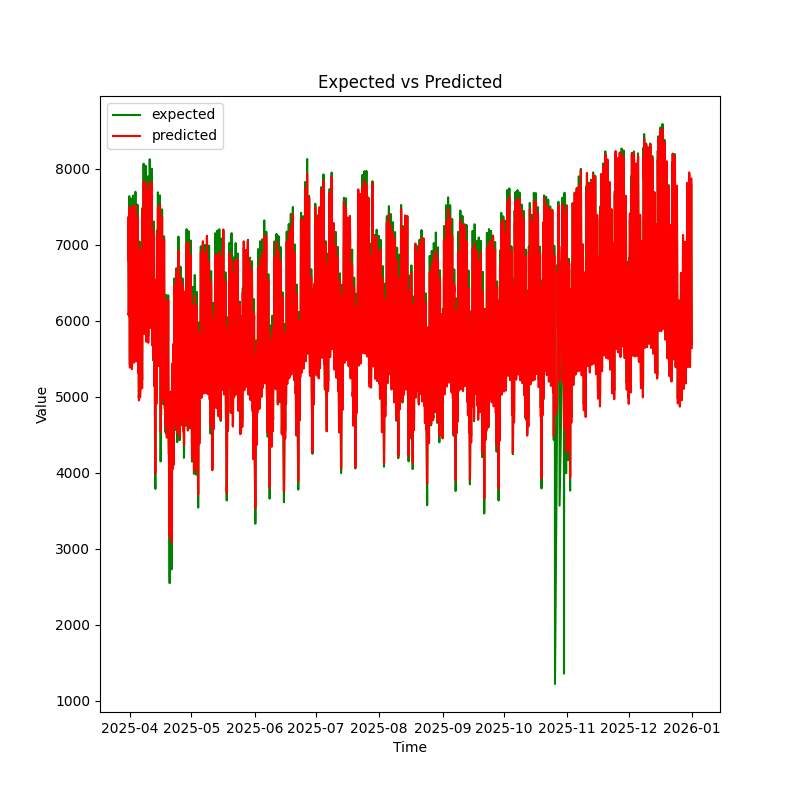
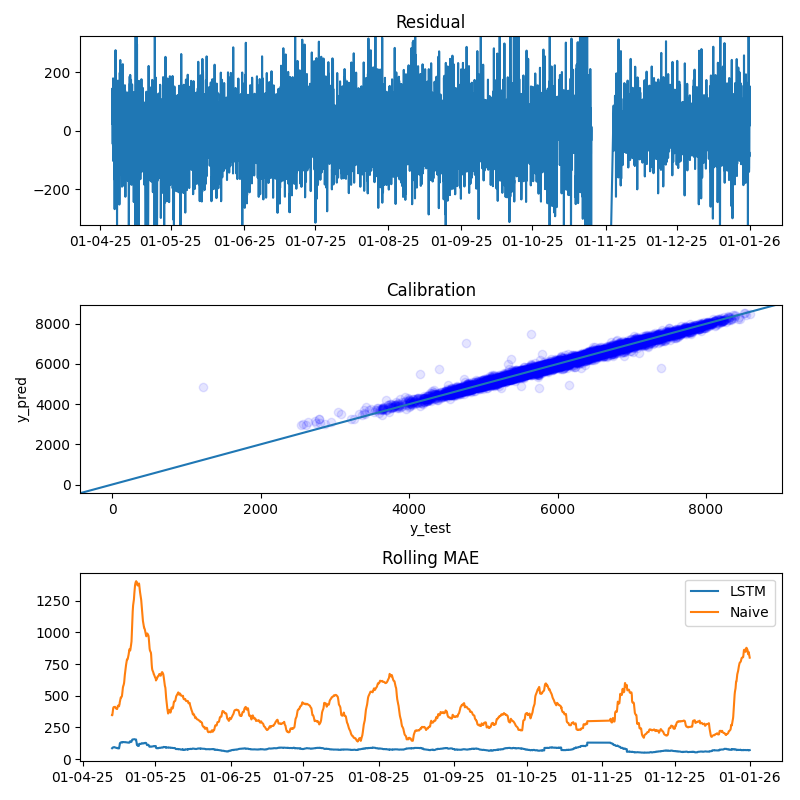
clean up  plus baseline model

diff --git a/src/evaluate.py b/src/evaluate.py
@@ -13,6 +13,7 @@ import torch
 from matplotlib import pyplot as plt
 from torch import nn
 
+from src.baselines import NaiveSeasonalForecast
 from src.data_processing import get_data_loader
 from src.model import EnergyModel
 from src.utils import read_configs, setup_device
@@ -24,18 +25,16 @@ device = setup_device()
 
 def get_skill_score(config, hours, y_test, valid_segments, model_loss):
     diffs_per_segment = []
-    window_total = config['hyperparams']['lookback'] + config['hyperparams']['forecast_horizon']
-    entry_counts = [segment - window_total + 1 for segment in valid_segments]
-    start_offsets = np.concatenate([[0], np.cumsum(entry_counts)[:-1]])
+    start_offsets = np.concatenate([[0], np.cumsum(valid_segments)[:-1]])
 
-    for offset, length in zip(start_offsets, entry_counts):
+    for offset, length in zip(start_offsets, valid_segments):
         y_t_idxs = range(offset + hours, offset + length)
         y_t_1_idxs = range(offset, offset + length-hours)
         diffs_per_segment.append(y_test[y_t_idxs] - y_test[y_t_1_idxs])
 
     diffs = np.concatenate(diffs_per_segment).squeeze()
     persistence_rmse = np.sqrt(np.mean(diffs ** 2))
-    return model_loss / persistence_rmse
+    return 1 - model_loss / persistence_rmse
 
 
 def log_metrics(config, y_test, y_pred, test_segments, mwh_rmse_loss):
@@ -53,14 +52,33 @@ def log_metrics(config, y_test, y_pred, test_segments, mwh_rmse_loss):
     logger.info(f'Skill score for 24h is: {lag24h.item():.3f}')
 
 
-def plot_overall_result(dates, y_test, y_pred):
-    plt.figure(figsize=(8, 8))
-    plt.plot(dates, y_test, label='expected', c='g')
-    plt.plot(dates, y_pred, label='predicted', c='r')
-    plt.xlabel('Time')
-    plt.ylabel('Value')
-    plt.title('Expected vs Predicted')
-    plt.legend()
+def plot_overall_result(config, dates, y_test, y_pred, y_naive):
+    fig, axs = plt.subplots(3, figsize=(8, 8))
+
+    lim = np.percentile(np.abs(y_test - y_pred), 99)
+    axs[0].xaxis.set_major_formatter(mdates.DateFormatter('%d-%m-%y'))
+    axs[0].set_ylim(-lim, lim)
+    axs[0].plot(dates, y_test - y_pred)
+    axs[0].set_title('Residual')
+    
+    axs[1].scatter(y_test, y_pred, c='b', alpha=.1)
+    axs[1].set_xlabel('y_test')
+    axs[1].set_ylabel('y_pred')
+    axs[1].axline((0, 0 ), slope=1)
+    axs[1].set_title('Calibration')
+
+    errors = np.abs(y_test - y_pred).ravel()
+    rolling_mae = pd.Series(errors).rolling(window=config['plot']['window']).mean()
+    
+    naive_errors = np.abs(y_test - y_naive).ravel()
+    naive_rolling_mae = pd.Series(naive_errors).rolling(window=config['plot']['window']).mean()
+    axs[2].xaxis.set_major_formatter(mdates.DateFormatter('%d-%m-%y'))
+    axs[2].plot(dates, rolling_mae, label='LSTM')
+    axs[2].plot(dates, naive_rolling_mae, label='Naive')
+    axs[2].set_title('Rolling MAE')
+    axs[2].legend()
+
+    fig.tight_layout()
     plt.savefig('outputs/evaluation_overall.png')
     plt.close()
 
@@ -79,13 +97,11 @@ def get_middle_segment_week(valid_segments):
     return start, end
 
 
-def get_worst_week_start(y_test, y_pred, valid_segments):
-    window_total = config['hyperparams']['lookback'] + config['hyperparams']['forecast_horizon']
-    entry_counts = [segment - window_total + 1 for segment in valid_segments]
-    start_offsets = np.concatenate([[0], np.cumsum(entry_counts)[:-1]])
+def get_worst_week_start(config, y_test, y_pred, valid_segments):
+    start_offsets = np.concatenate([[0], np.cumsum(valid_segments)[:-1]])
     weekly_data = []
 
-    for offset, segment in zip(start_offsets, entry_counts):
+    for offset, segment in zip(start_offsets, valid_segments):
         weeks = segment // 168
         length = weeks * 168
         for i in range(offset, offset + length, 168):
@@ -109,22 +125,25 @@ def get_holiday_week_mask(dates,):
     return dates_mask
     
 
-def plot_week_data(dates, y_test, y_pred, valid_segments):
+def plot_week_data(config, dates, y_test, y_pred, y_naive, valid_segments):
     fig, axs = plt.subplots(3, figsize=(8, 8))
 
     start, end = get_middle_segment_week(valid_segments)
-    worst_start = get_worst_week_start(y_test, y_pred, valid_segments)
+    worst_start = get_worst_week_start(config, y_test, y_pred, valid_segments)
     holidays_mask = get_holiday_week_mask(dates)
 
     y_test_week = y_test[start:end]
     y_pred_week = y_pred[start:end]
+    y_naive_week = y_naive[start:end]
     dates_week = dates[start:end]
 
     fig.tight_layout()
     axs[0].xaxis.set_major_formatter(mdates.DateFormatter('%d-%m-%y'))
-    axs[0].plot(dates_week, y_test_week)
-    axs[0].plot(dates_week, y_pred_week)
+    axs[0].plot(dates_week, y_test_week, label='Expected')
+    axs[0].plot(dates_week, y_pred_week, label='LSTM')
+    axs[0].plot(dates_week, y_naive_week, label='Naive')
     axs[0].set_title('Weekly data')
+    axs[0].legend()
 
     y_test_worst_week = y_test[worst_start: worst_start + 168]
     y_pred_worst_week = y_pred[worst_start: worst_start + 168]
@@ -186,10 +205,36 @@ def evaluate(config):
     y_pred = target_scaler.inverse_transform(y_pred)
     mwh_rmse_loss = target_scaler.scale_ * scaled_rmse_loss
 
-    log_metrics(config, y_test, y_pred, test_data[2], mwh_rmse_loss)
+    naive_model = NaiveSeasonalForecast(config, test_data[2])
+    y_naive = naive_model.predict(test_data[1])
+    y_naive = target_scaler.inverse_transform(y_naive)
+
+    valid_mask = np.isfinite(y_naive)
+    valid_counts = []
+
+    window_total = config['hyperparams']['lookback'] + config['hyperparams']['forecast_horizon']
+    window_lengths = [segment - window_total + 1 for segment in test_data[2]]
+    start_offsets = np.concatenate([[0], np.cumsum(window_lengths)[:-1]])
+    for start, length in zip(start_offsets, window_lengths):
+        chunk = y_naive[start:start+length]
+        valid_counts.append(np.count_nonzero(~np.isnan(chunk)))
+
+    y_naive = y_naive[~np.isnan(y_naive)]
+
+    y_test = y_test[valid_mask]
+    y_pred = y_pred[valid_mask]
+    mwh_rmse_loss_naive = np.sqrt(np.mean((y_naive - y_test) ** 2))
+
+    log_metrics(config, y_test, y_pred, valid_counts, mwh_rmse_loss)
+    logger.info('Naive model')
+    log_metrics(config, y_test, y_naive, valid_counts, mwh_rmse_loss_naive)
+
+    valid_mask = valid_mask.squeeze()
+    dates = test_data[3]
+    dates = dates[valid_mask]
     
-    plot_overall_result(test_data[3], y_test, y_pred)
-    plot_week_data(test_data[3], y_test, y_pred, test_data[2])
+    plot_overall_result(config, dates, y_test, y_pred, y_naive)
+    plot_week_data(config, dates, y_test, y_pred, y_naive, valid_counts)
 
 
 if __name__ == '__main__':

diff --git a/src/train.py b/src/train.py
@@ -1,3 +1,6 @@
+import os
+os.environ['CUBLAS_WORKSPACE_CONFIG'] = ':4096:2'
+
 import argparse
 import logging
 import joblib
@@ -14,11 +17,22 @@ from torch import nn
 
 from src.data_processing import get_data_loader, get_train_eval_test_df
 from src.model import EnergyModel
-from src.utils import read_configs, setup_device
+from src.utils import read_configs, set_random_seeds, setup_device
 
 
 logger = logging.getLogger(__name__)
-device = setup_device()
+
+
+def plot_learning_curve(training_loss, eval_loss, best_eval_idx):
+    plt.figure(figsize=(8, 8))
+    plt.plot(training_loss, c='b', label='training')
+    plt.plot(eval_loss, c='orange', label='eval')
+    plt.axvline(best_eval_idx, c='r', label='saved checkpoint')
+    plt.xlabel('Epoch')
+    plt.ylabel('Loss')
+    plt.title('Learning curve')
+    plt.legend()
+    plt.savefig(f'outputs/learning_curve.png')
 
 
 def train(config):
@@ -93,14 +107,9 @@ def train(config):
     joblib.dump(scaler, config['data_paths']['scaler'])
     joblib.dump(target_scaler, config['data_paths']['target_scaler'])
 
-    plt.figure(figsize=(8, 8))
-    plt.plot(training_avg_loss, label='training')
-    plt.plot(eval_avg_loss, label='eval')
-    plt.xlabel('Epoch')
-    plt.ylabel('Loss')
-    plt.title('Learning curve')
-    plt.legend(['training', 'eval'])
-    plt.savefig(f'outputs/learning_curve.png')
+
+    best_eval_idx = np.argmin(eval_avg_loss)
+    plot_learning_curve(training_avg_loss, eval_avg_loss, best_eval_idx)
 
 
 if __name__ == '__main__':
@@ -111,4 +120,7 @@ if __name__ == '__main__':
     logging.basicConfig(level=logging.INFO)
     base_path = Path(__file__).parent.parent / 'config' / 'base.yaml'
     config = read_configs(base_path, args.config)
+    set_random_seeds(config)
+    device = setup_device()
+
     train(config)

diff --git a/src/baselines.py b/src/baselines.py
@@ -1,0 +1,39 @@
+import numpy as np
+
+class NaiveSeasonalForecast():
+    def __init__(self, config, segments):
+        self.lookback = config['hyperparams']['lookback']
+        self.forecast = config['hyperparams']['forecast_horizon']
+        self.segments = segments
+        self.start_offsets = np.concatenate([[0], np.cumsum(self.segments)[:-1]])
+        self.m = config['naive']['m']
+
+    def predict(self, y):
+        y_pred = []
+        
+        for start, length in zip(self.start_offsets, self.segments):
+            if self.m > length:
+                y_temp = np.array([[np.nan] * self.forecast] * (length - self.forecast + 1))
+                y_pred.extend(y_temp[self.lookback:])
+                continue
+
+            y_temp = []
+            starting_length = length
+            for i in range(self.lookback, length - self.forecast + 1):
+                if i - self.m < 0:
+                    y_temp.append(np.array([np.nan] * self.forecast))
+                    starting_length -= 1
+                    continue
+
+                y_temp.append(y[start + i - self.m : start + i - self.m + self.forecast])
+            
+            y_pred.extend(y_temp)
+
+        return np.asarray(y_pred)
+
+        
+
+        
+
+        
+        

diff --git a/src/data_processing.py b/src/data_processing.py
@@ -1,5 +1,6 @@
 import math
 from pathlib import Path
+import random
 
 import holidays
 import numpy as np
@@ -77,6 +78,8 @@ def feature_engineer(df):
     date_max_value = (df['DateUTC'].max() - date_min).total_seconds()
 
     df['trend'] = (df['DateUTC'] - date_min).dt.total_seconds() / date_max_value
+
+    return df
     
 
 def segment_dataframe(config, df):
@@ -98,7 +101,7 @@ def segment_dataframe(config, df):
 def process_df(config):
     df = get_df(config)
     df, segment_lengths = segment_dataframe(config, df)
-    feature_engineer(df)
+    df = feature_engineer(df)
     date_utc = df['DateUTC']
 
     df= df.drop('DateUTC', axis=1)
@@ -175,4 +178,9 @@ def get_data_loader(config, data_tuple):
     forecast_horizon = config['hyperparams']['forecast_horizon']
 
     custom_dataset = CustomDataset(data_tuple[0], data_tuple[1], lookback, data_tuple[2], forecast_horizon)
-    return DataLoader(custom_dataset, batch_size, num_workers=config['hyperparams']['num_workers'])
+
+    return DataLoader(
+        custom_dataset, 
+        batch_size,
+        num_workers=config['hyperparams']['num_workers']
+        )

diff --git a/src/utils.py b/src/utils.py
@@ -1,3 +1,4 @@
+import numpy as np
 import torch
 import yaml
 
@@ -30,8 +31,16 @@ def read_configs(base, override):
 
 def setup_device():
     if torch.cuda.is_available():
+        torch.backends.cudnn.benchmark = False
         return torch.device('cuda')
     elif torch.backends.mps.is_available():
         return torch.device('mps')
     else:
         return torch.device('cpu')
+    
+
+def set_random_seeds(config):
+    seed = config['seed']
+    np.random.seed(seed)
+    torch.manual_seed(seed)
+    torch.use_deterministic_algorithms(True)
